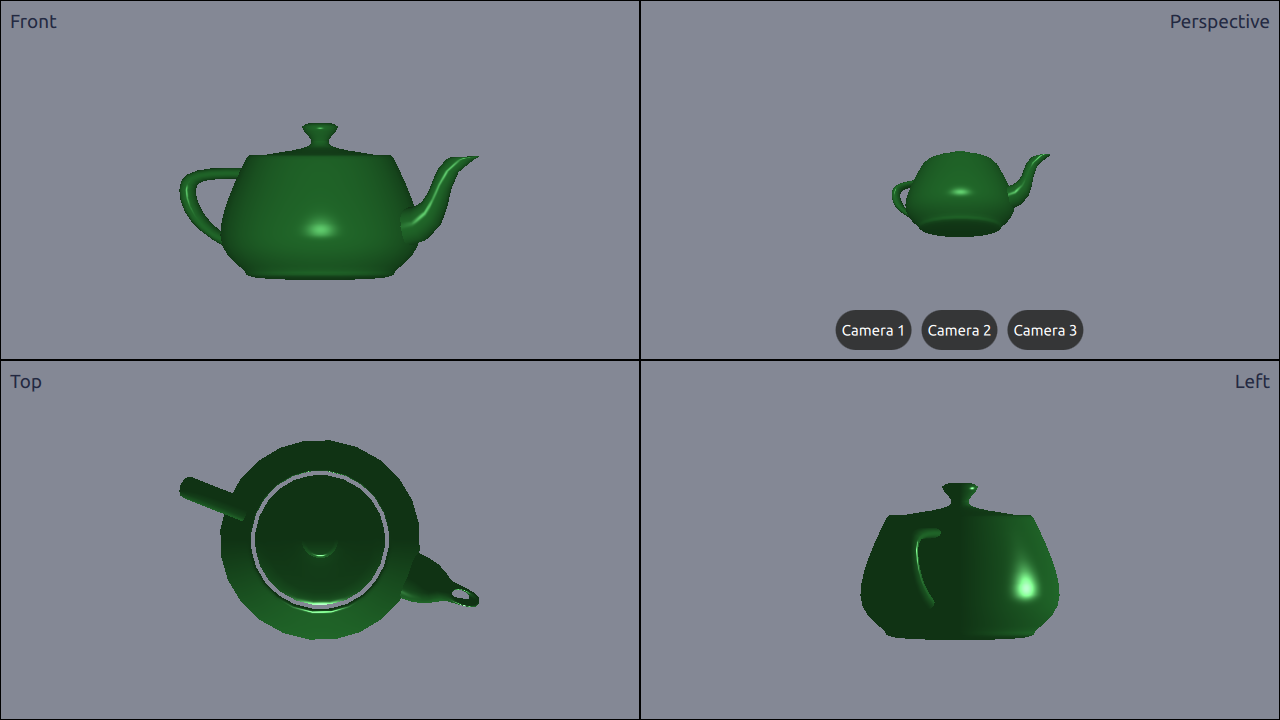
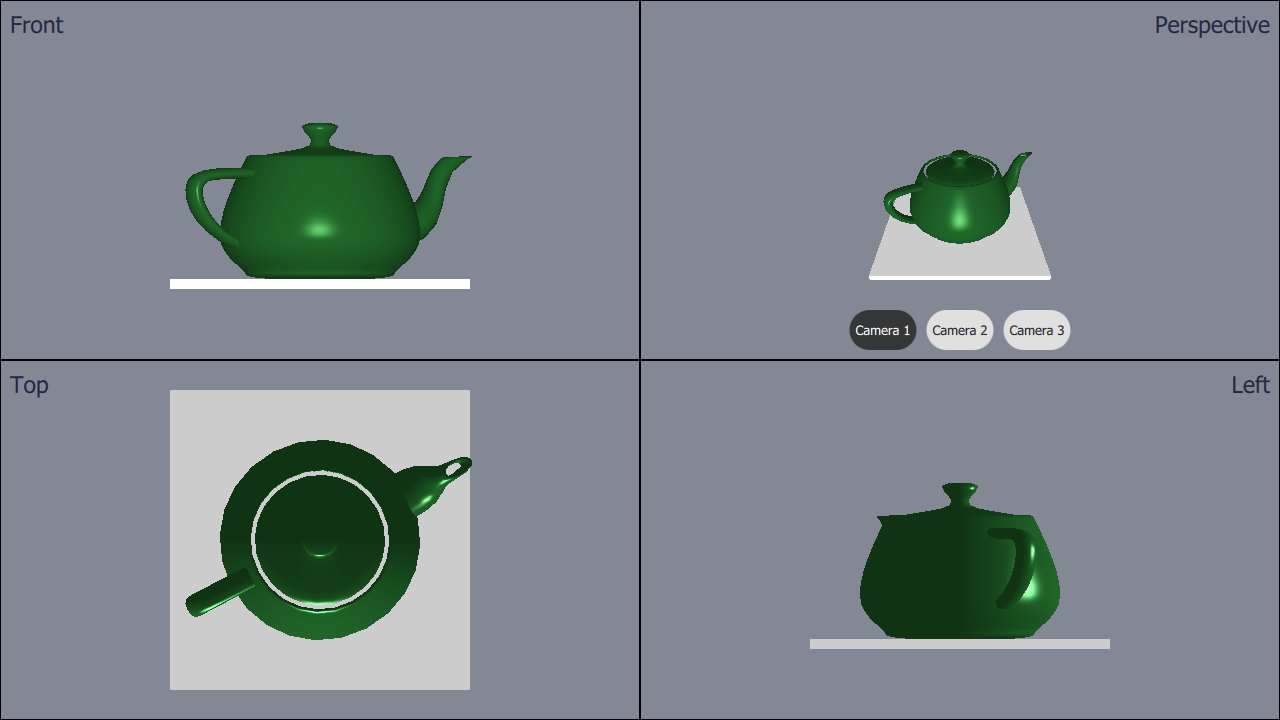
Minor View3D example tweaks
Add floor for teapot to make model vs. camera animations clearer.
Toggle buttons to show selected camera. Remove extra animations.

diff --git a/qtquick3d/examples/quick3d/view3d/main.qml b/qtquick3d/examples/quick3d/view3d/main.qml
@@ -71,6 +71,18 @@ Window {
         }
 
         Model {
+            source: "#Cube"
+            y: -104
+            scale: Qt.vector3d(3, 3, 0.1)
+            rotation: Qt.vector3d(90, 0, 0)
+            materials: [
+                DefaultMaterial {
+                    diffuseColor: Qt.rgba(0.8, 0.8, 0.8, 1.0)
+                }
+            ]
+        }
+
+        Model {
             source: "teapot.mesh"
             y: -100
             scale: Qt.vector3d(50, 50, 50)
@@ -85,13 +97,11 @@ Window {
                 }
             ]
 
-            SequentialAnimation on rotation {
+            PropertyAnimation on rotation {
                 loops: Animation.Infinite
-                PropertyAnimation {
-                    duration: 5000
-                    to: Qt.vector3d(0, 0, 0)
-                    from: Qt.vector3d(0, 360, 0)
-                }
+                duration: 5000
+                to: Qt.vector3d(0, 0, 0)
+                from: Qt.vector3d(0, 360, 0)
             }
         }
 
@@ -103,13 +113,11 @@ Window {
                 id: cameraPerspectiveOne
                 z: -600
             }
-            SequentialAnimation on rotation {
+            PropertyAnimation on rotation {
                 loops: Animation.Infinite
-                PropertyAnimation {
-                    duration: 5000
-                    to: Qt.vector3d(360, 0, 0)
-                    from: Qt.vector3d(0, 0, 0)
-                }
+                duration: 5000
+                to: Qt.vector3d(360, 0, 0)
+                from: Qt.vector3d(0, 0, 0)
             }
         }
 
@@ -127,13 +135,11 @@ Window {
                 x: 500
                 rotation: Qt.vector3d(0, -90, 0)
             }
-            SequentialAnimation on rotation {
+            PropertyAnimation on rotation {
                 loops: Animation.Infinite
-                PropertyAnimation {
-                    duration: 5000
-                    to: Qt.vector3d(0, 0, 0)
-                    from: Qt.vector3d(0, 360, 0)
-                }
+                duration: 5000
+                to: Qt.vector3d(0, 0, 0)
+                from: Qt.vector3d(0, 360, 0)
             }
         }
 
@@ -234,7 +240,7 @@ Window {
             //! [buttons]
             RoundButton {
                 text: "Camera 1"
-                highlighted: true
+                highlighted: topRightView.camera == cameraPerspectiveOne
                 onClicked: {
                     topRightView.camera = cameraPerspectiveOne
                 }
@@ -242,14 +248,14 @@ Window {
             //! [buttons]
             RoundButton {
                 text: "Camera 2"
-                highlighted: true
+                highlighted: topRightView.camera == cameraPerspectiveTwo
                 onClicked: {
                     topRightView.camera = cameraPerspectiveTwo
                 }
             }
             RoundButton {
                 text: "Camera 3"
-                highlighted: true
+                highlighted: topRightView.camera == cameraPerspectiveThree
                 onClicked: {
                     topRightView.camera = cameraPerspectiveThree
                 }
